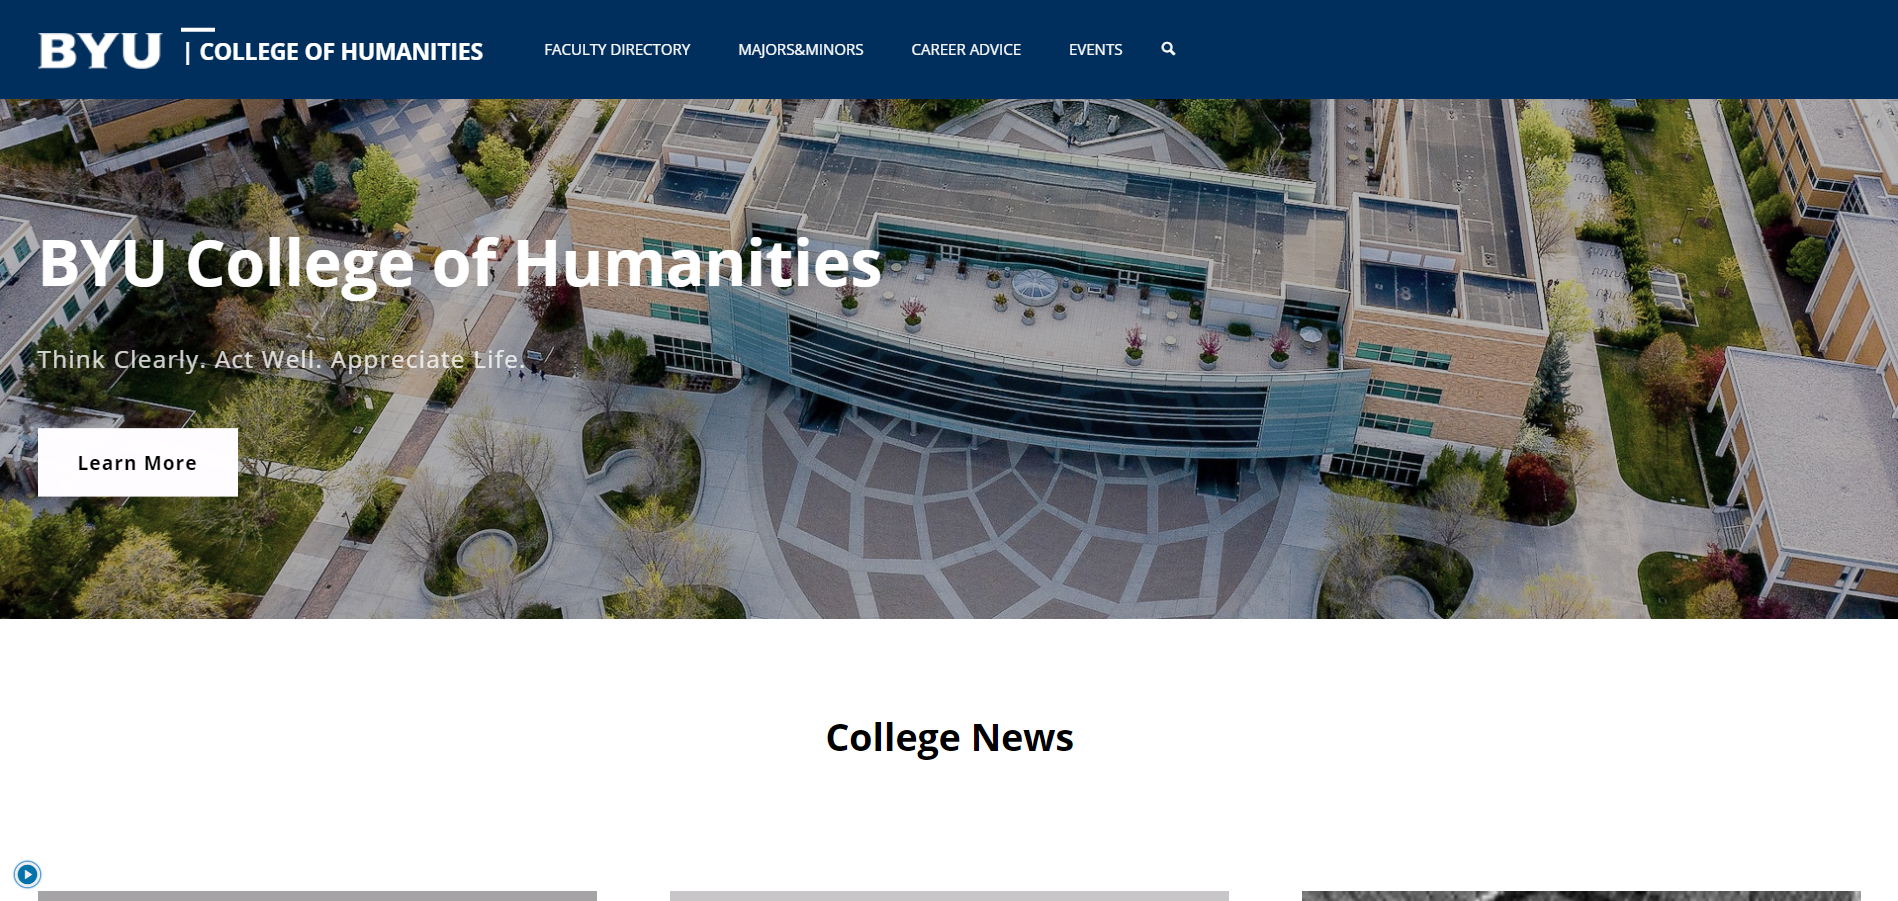
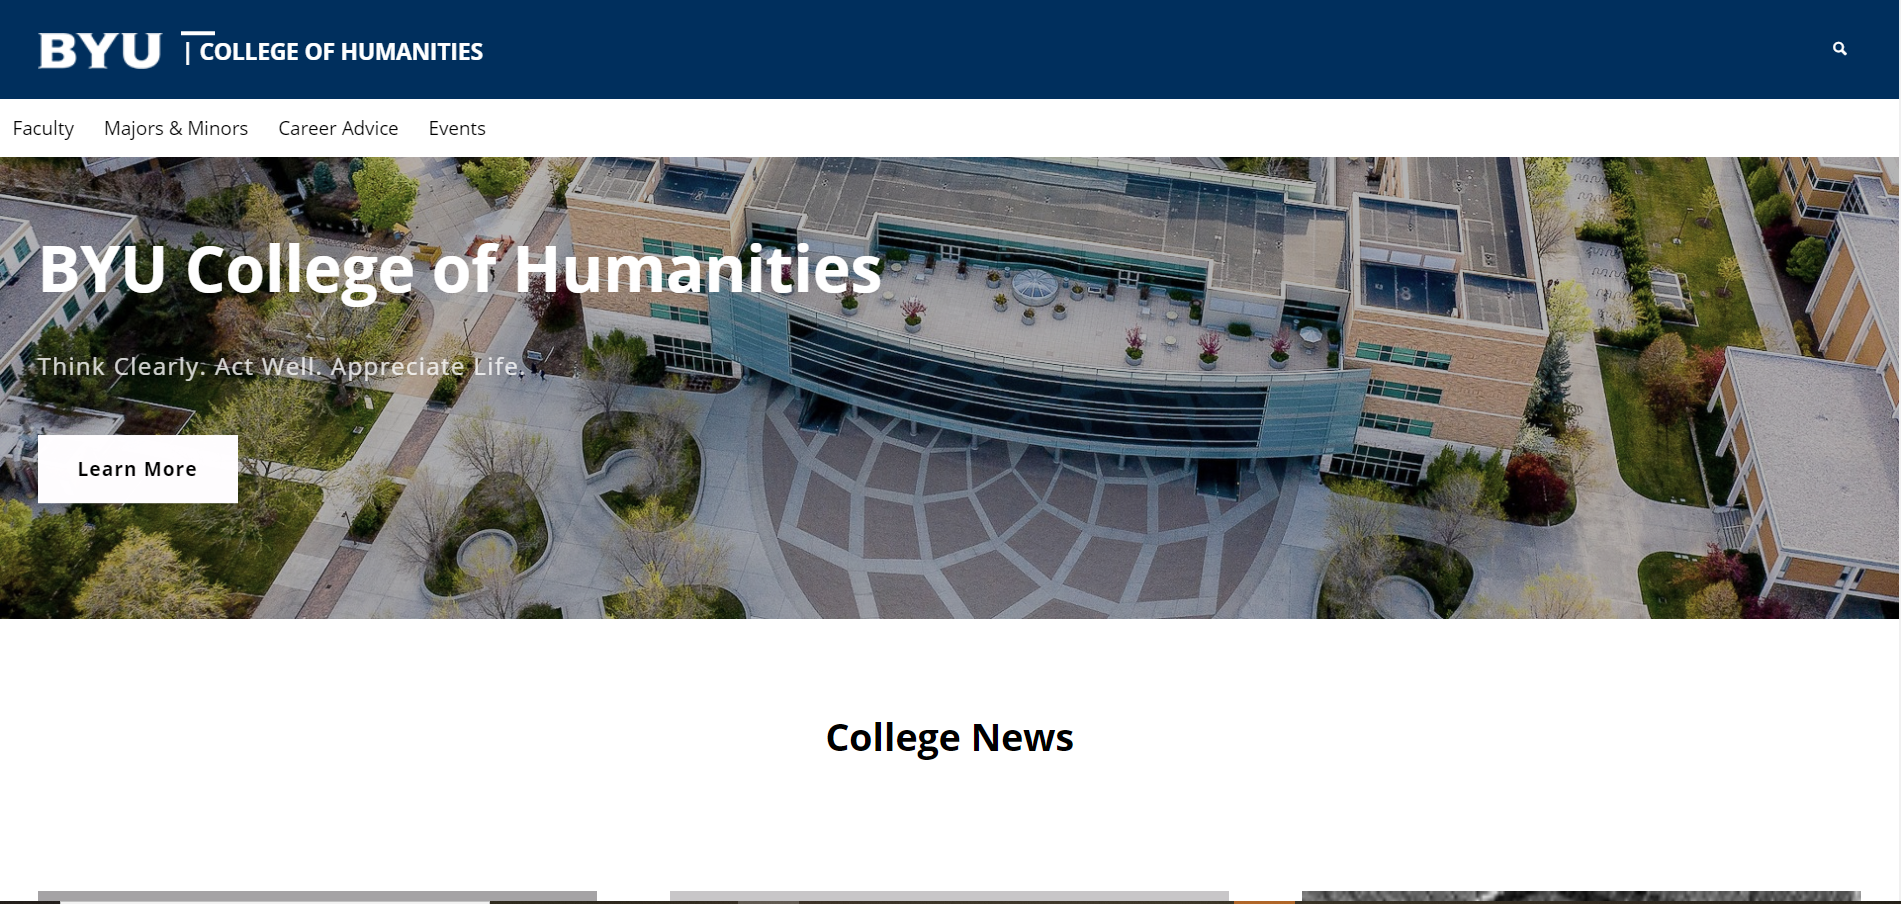
Update changes to styles.css and screenshot.png

diff --git a/style.css b/style.css
@@ -592,7 +592,7 @@ a:visited {
 #breadcrumbs-container-inside,
 #colophon-inside,
 #footer-inside,
-.lp-staticslider .staticslider-caption,
+/* .lp-staticslider .staticslider-caption, */
 .seriousslider.seriousslider-theme .seriousslider-caption,
 .septera-landing-page .lp-blocks-inside,
 .septera-landing-page .lp-boxes-inside,
@@ -698,7 +698,7 @@ a#logo > img {
 #site-title a::before,
 .lp-box-title::before,
 .widget-title::before {
-    content: "";
+    /* content: ""; */
 	position: relative;
     display: block;
     width: 1.5em;
@@ -854,7 +854,7 @@ a#logo > img {
 }
 
 .septera-menu-left #access {
-	float: left;
+	float: right;
 	margin-left: 2em;
 }
 
@@ -2594,7 +2594,7 @@ a[class^="staticslider-button"],
 	-webkit-animation: .75s 1.2s animation-slider-buttons ease-out forwards;
 	animation: .75s 1.2s animation-slider-buttons ease-out forwards;
 	color: #0062B8;
-	background-color: #FFF;
+	background-color: #0062B8;
 }
 
 @-webkit-keyframes animation-slider-buttons {
@@ -2628,7 +2628,7 @@ a.staticslider-button + a.staticslider-button,
 .staticslider-button:nth-child(2n+1):hover,
 .seriousslider-caption-buttons a:nth-child(2n+1):hover,
 .seriousslider.seriousslider-theme .seriousslider-caption-buttons a:nth-child(2n+1):hover {
-	background: transparent;
+	transform: scale(1.1);
 }
 
 .seriousslider .seriousslider-inner > .item {
@@ -6565,22 +6565,39 @@ body.mobile .main {min-height:0;}
 
 div#humanities-menu {
     display: block;
-	height: 1rem;
 	margin-top: 79px;
 }
 
+ul#menu-studentmain {
+	padding-left: 140px;
+}
+
 div#humanities-menu li {
-    display: inline-block;
+	display: inline-block;
+	padding: 10px;
 }
 
 div#humanities-menu .menu {
     display: block;
-    height: 1rem;
     background-color: white;
 }
 
 div#humanities-menu .menu a {
-	color: black;
+	color: #002E5D;
+}
+
+.staticslider-caption {
+	padding-top: 10px;
+}
+
+.lp-staticslider .staticslider-caption {
+	padding-left: 150px;
+}
+
+.seriousslider-theme .seriousslider-caption-buttons a:nth-child(2n+1), a.staticslider-button:nth-child(2n+1) {
+	color: white;
+	border-color: #0062B8;
+	background-color: #0062B8;
 }
 
 /* FIN! */
